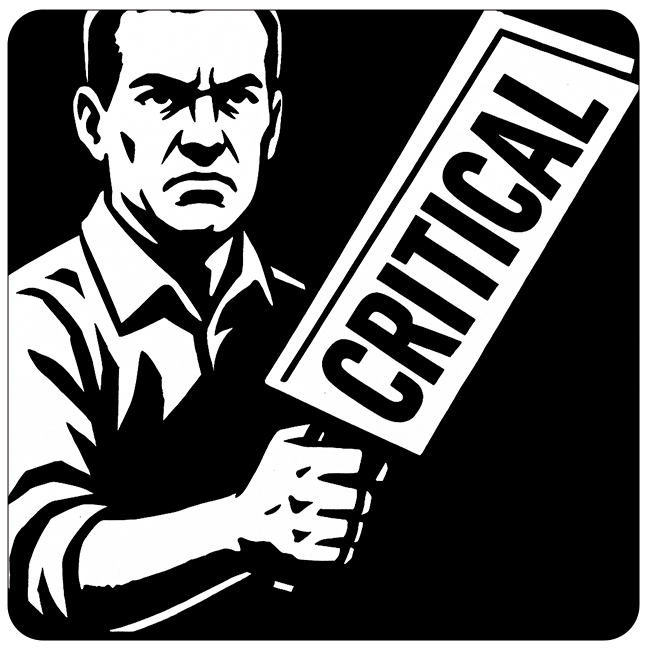
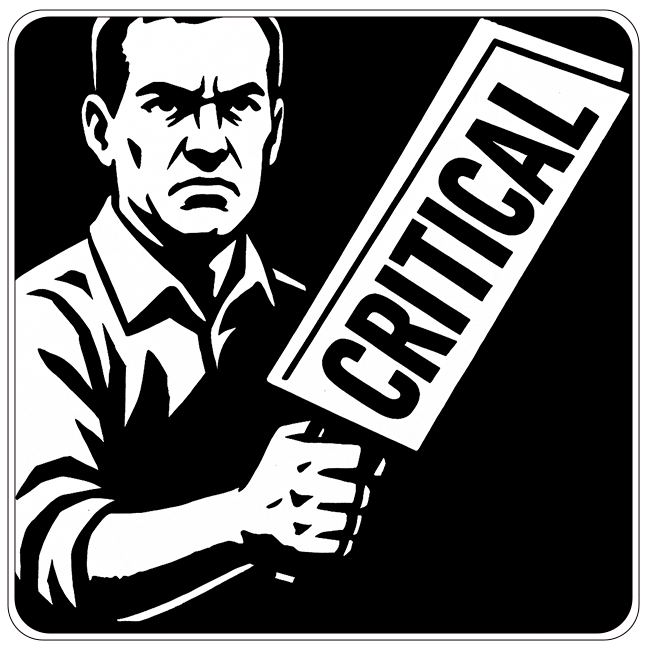
img

diff --git a/index.html b/index.html
@@ -275,9 +275,9 @@
                     </div>
                 </div>     
                 <div class="column entry">
-                    <a href="images/folio/loading.png" class="entry__link glightbox" data-glightbox="title: AppSec On Fire; description: .entry__desc-12">
+                    <a href="images/folio/AppSec-Onfire.png" class="entry__link glightbox" data-glightbox="title: AppSec On Fire; description: .entry__desc-12">
                         <div class="entry__thumb">
-                            <img src="images/folio/loading.png" srcset="images/folio/loading.png 1x, images/folio/loading@2x.png 2x" alt="AppSec On Fire" />
+                            <img src="images/folio/AppSec-Onfire.png" srcset="images/folio/AppSec-Onfire.png 1x, images/folio/AppSec-Onfire@2x.png 2x" alt="AppSec On Fire" />
                         </div>
                         <div class="entry__info">
                             <h4 class="entry__title">AppSec On Fire</h4>
